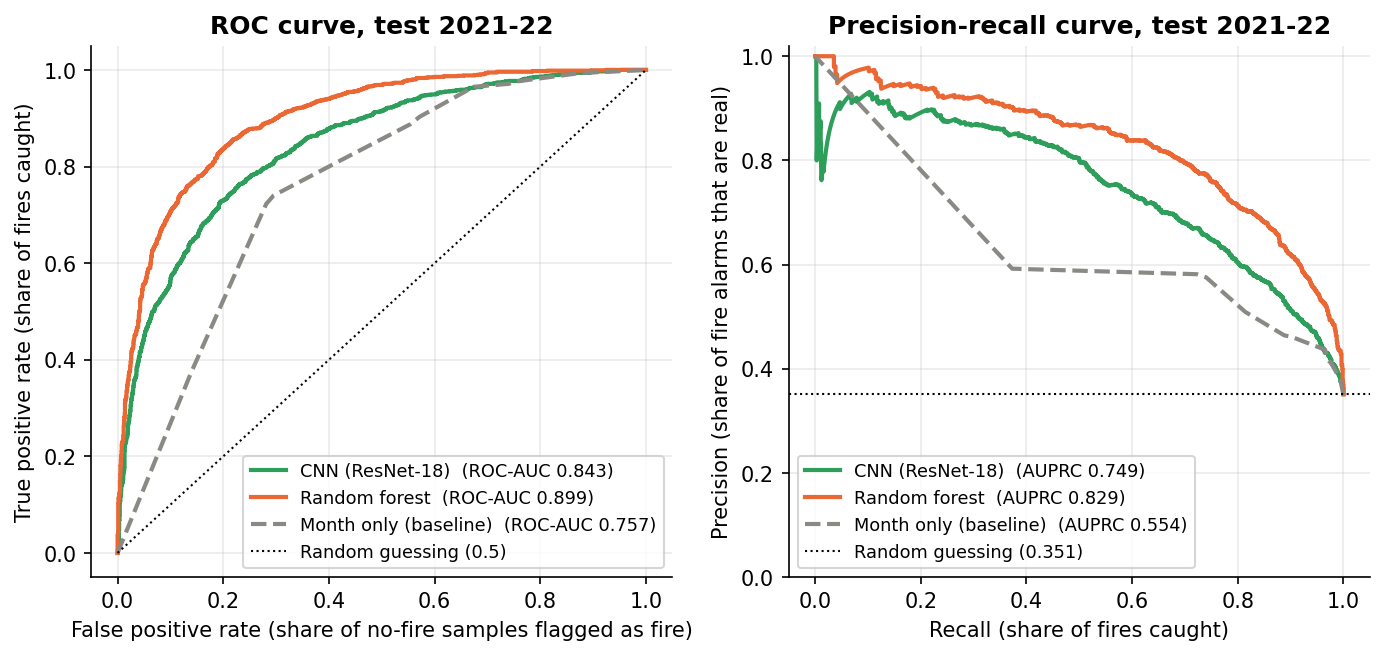
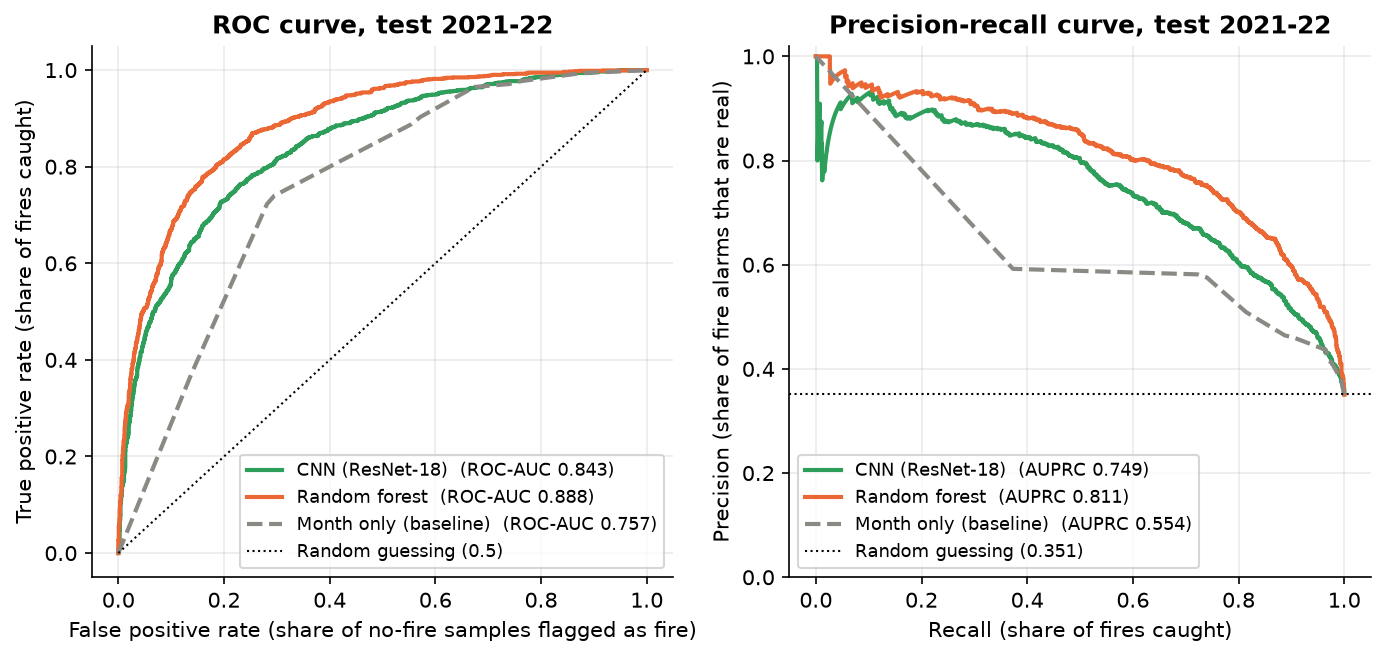
CNN report: re-draw RF curve and cloud table with the day t-1 random forest
Only the RF-dependent outputs (02_roc_pr_curves.png, by_cloud.csv) were
regenerated; CNN outputs are unchanged. Also corrects CNN precision at 80 %
recall (60 %, was 62 %).

diff --git a/reports/cnn/README.md b/reports/cnn/README.md
@@ -6,8 +6,8 @@ samples, years and metrics as the tabular models (`reports/tabular/README.md`), 
 branches are directly comparable and fusion can join them by `sample_id`.
 
 > **In one paragraph.** On the 2021-22 test years the CNN reaches **AUPRC 0.749** (ROC-AUC
-> 0.843, F1 0.695): clearly better than logistic regression on the tabular features (0.710) and
-> clearly below the random forest (0.829). Season-matched it keeps **AUPRC 0.705** (chance
+> 0.843, F1 0.695): clearly better than logistic regression on the tabular features (0.695) and
+> clearly below the random forest (0.811). Season-matched it keeps **AUPRC 0.705** (chance
 > 0.351), and it loses less to season matching than the random forest does (-0.04 vs -0.10),
 > so the image carries fire-danger signal that is not just "it looks like summer". The model
 > overfits quickly (training loss 0.09 after 18 epochs while the hold-out score plateaus around
@@ -67,22 +67,22 @@ meaningful: any epoch after 5 gives roughly the same model.
 | Model | AUPRC | ROC-AUC | F1 | Precision | Recall | AUPRC season-matched | ROC-AUC season-matched |
 |---|---|---|---|---|---|---|---|
 | **CNN (ResNet-18)** | **0.749** | **0.843** | **0.695** | 0.656 | 0.738 | **0.705** | 0.810 |
-| Random forest (tabular) | 0.829 | 0.899 | 0.758 | 0.691 | 0.839 | 0.731 | 0.831 |
-| Logistic regression (tabular) | 0.710 | 0.819 | 0.673 | 0.579 | 0.804 | 0.604 | 0.736 |
+| Random forest (tabular) | 0.811 | 0.888 | 0.747 | 0.707 | 0.791 | 0.707 | 0.815 |
+| Logistic regression (tabular) | 0.695 | 0.807 | 0.675 | 0.600 | 0.773 | 0.583 | 0.717 |
 | Month only (baseline) | 0.554 | 0.757 | 0.644 | 0.581 | 0.723 | 0.351 (chance) | 0.500 (chance) |
 
 ![ROC and precision-recall curves](figures/02_roc_pr_curves.png)
 
 **Figure 2.** ROC (left) and precision-recall (right) curves on the test set. The random forest
-is above the CNN at every operating point; the CNN is above the month-only baseline everywhere.
-At 80 % recall, 62 % of the CNN's alarms are real against 71 % for the random forest.
+is above the CNN at almost every operating point (they touch only at the far right of the ROC plot); the CNN is above the month-only baseline everywhere.
+At 80 % recall, 60 % of the CNN's alarms are real against 70 % for the random forest.
 
 **Reading the numbers.**
-- The image alone gets a good part of the way: AUPRC 0.749 against 0.829 for 27 numeric
+- The image alone gets a good part of the way: AUPRC 0.749 against 0.811 for 27 numeric
   drivers, and above the linear tabular model. Fuel type, vegetation density and terrain are
-  visible in the tile; the weather of the day is not, which is a plausible reason for the gap.
+  visible in the tile; the weather of the day before the fire is not, which is a plausible reason for the gap.
 - **Season matching costs the CNN less** (0.749 → 0.705) than the random forest
-  (0.829 → 0.731) or logistic regression (0.710 → 0.604). The tabular models see temperature
+  (0.811 → 0.707) or logistic regression (0.695 → 0.583). The tabular models see temperature
   and radiation, which reveal the month directly; the image reveals it only through vegetation
   colour. So a larger share of the CNN's score is "which place burns", not "which time of year".
   That is the kind of complementary information fusion is meant to exploit.
@@ -108,15 +108,15 @@ test set (`by_cloud.csv`):
 
 | Scene cloud | n | Share of fires | CNN mean p | RF mean p | CNN ROC-AUC | RF ROC-AUC | CNN AUPRC | RF AUPRC |
 |---|---|---|---|---|---|---|---|---|
-| 0-1 % | 2,572 | 0.41 | 0.41 | 0.40 | 0.845 | 0.890 | 0.795 | 0.844 |
-| 1-5 % | 661 | 0.29 | 0.35 | 0.31 | 0.840 | 0.917 | 0.694 | 0.836 |
-| 5-20 % | 525 | 0.15 | 0.22 | 0.22 | 0.777 | 0.876 | 0.421 | 0.584 |
+| 0-1 % | 2,572 | 0.41 | 0.41 | 0.40 | 0.845 | 0.880 | 0.795 | 0.827 |
+| 1-5 % | 661 | 0.29 | 0.35 | 0.31 | 0.840 | 0.897 | 0.694 | 0.798 |
+| 5-20 % | 525 | 0.15 | 0.22 | 0.22 | 0.777 | 0.855 | 0.421 | 0.592 |
 
 The CNN's average probability falls with cloud cover, but so does the share of fires, and the
 random forest (which never sees the image) shows the same pattern: cloudier scenes are simply
 more often non-fire days. *Within* each bucket the CNN still separates fires from non-fires
 (ROC-AUC 0.78-0.85, far from 0.5), so it is not scoring by cloud alone. It does lose more than
-the random forest on the cloudiest bucket (ROC-AUC 0.78 vs 0.88), as one would expect when part
+the random forest on the cloudiest bucket (ROC-AUC 0.78 vs 0.86), as one would expect when part
 of the tile is hidden. AUPRC is not comparable across buckets because the fire share differs.
 
 ## 6. Hand-off to fusion
